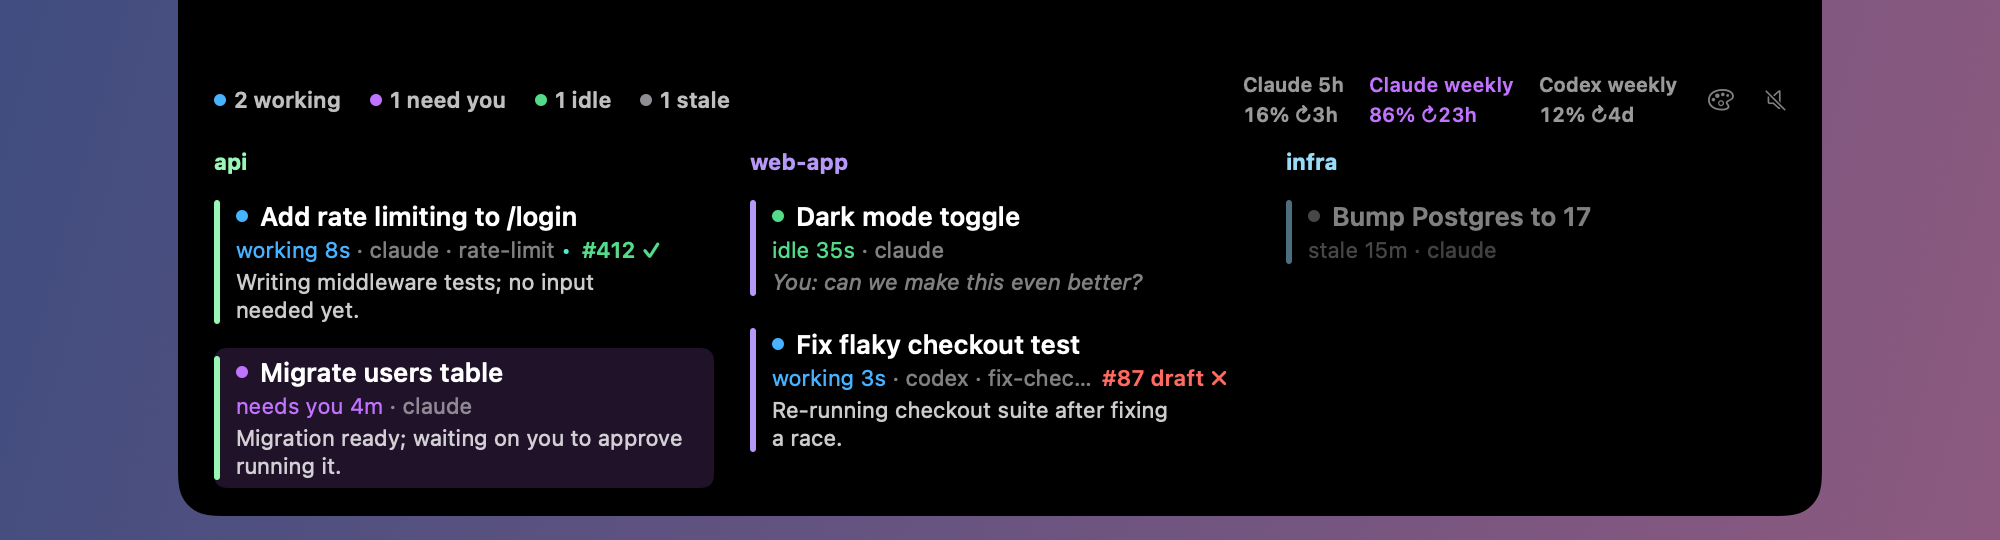
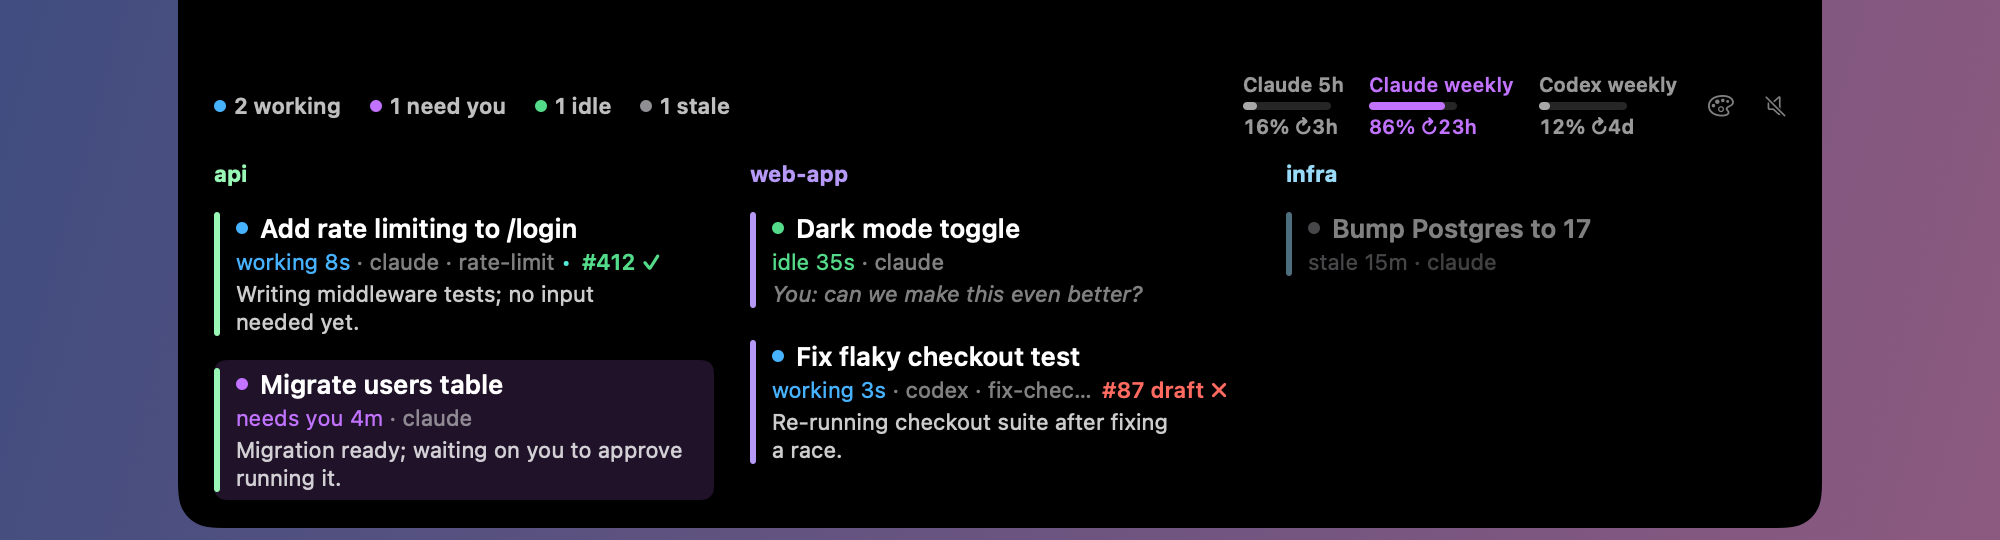
fix(notch): retain usage bars in three-project panels

diff --git a/notch/Notch.swift b/notch/Notch.swift
@@ -283,12 +283,13 @@ struct NotchView: View {
                 Spacer().frame(height: notch.height - 6)
                 let repos = groups(store.sessions)
                 let contentWidth = max(264, min(room - 36, CGFloat(repos.count) * (colW + 18) - 18))
+                let showBars = contentWidth >= 3 * colW + 36
                 ViewThatFits(in: .horizontal) {
-                    header(showLimits: true, bars: true)
-                    header(showLimits: true)
+                    header(showLimits: true, bars: true, compact: false)
+                    header(showLimits: true, bars: showBars)
                     VStack(alignment: .leading, spacing: 8) {
                         header(showLimits: false)
-                        if !store.limits.isEmpty { limitsRow(bars: false) }
+                        if !store.limits.isEmpty { limitsRow(bars: showBars) }
                     }
                 }.frame(width: contentWidth)
                 if store.sessions.isEmpty {
@@ -355,24 +356,24 @@ struct NotchView: View {
         .padding(.trailing, beside ? trailing : 0)
     }
 
-    func header(showLimits: Bool, bars: Bool = false) -> some View {
+    func header(showLimits: Bool, bars: Bool = false, compact: Bool = true) -> some View {
         HStack(spacing: 14) {
             count("working", p.working) { $0.status == "busy" }
             count("need you", p.needs) { $0.needs == true }
             count("idle", p.idle) { $0.status != "busy" && $0.needs != true && $0.stale != true }
             count("stale", p.stale) { $0.stale == true }
             Spacer(minLength: 24)
-            if showLimits && !store.limits.isEmpty { limitsRow(bars: bars) }
+            if showLimits && !store.limits.isEmpty { limitsRow(bars: bars, compact: compact) }
             paletteMenu
             soundToggle
         }.font(.system(size: 11, weight: .semibold))
     }
 
-    func limitsRow(bars: Bool) -> some View {
+    func limitsRow(bars: Bool, compact: Bool = true) -> some View {
         HStack(spacing: 12) {
             ForEach(store.limits.flatMap { t in t.windows.map { ("\(t.tool) \($0.label)", $0) } }, id: \.0) { label, w in
                 let c = w.used >= 95 ? p.failing : w.used >= 80 ? p.warn : .white.opacity(0.6)
-                let layout = bars ? AnyLayout(HStackLayout(spacing: 6)) : AnyLayout(VStackLayout(alignment: .leading, spacing: 2))
+                let layout = compact ? AnyLayout(VStackLayout(alignment: .leading, spacing: 2)) : AnyLayout(HStackLayout(spacing: 6))
                 layout {
                     Text(label)
                     if bars {
@@ -383,7 +384,7 @@ struct NotchView: View {
                     }
                     Text("\(Int(w.used.rounded()))%" + (w.reset.map { " ↻\($0)" } ?? "")).monospacedDigit()
                 }
-                .font(.system(size: bars ? 11 : 10, weight: .semibold))
+                .font(.system(size: compact ? 10 : 11, weight: .semibold))
                 .foregroundStyle(c)
             }
         }

diff --git a/tests/NotchLayoutTests.swift b/tests/NotchLayoutTests.swift
@@ -3,19 +3,21 @@ import SwiftUI
 @main struct NotchLayoutTests {
     @MainActor static func main() {
         for count in 1...3 {
-            let sessions = (0..<count).map { i in
-                Session(tool: "claude", id: "\(i)", title: "Test session", project: "repo\(i)", repo: "repo\(i)",
-                        cwd: "", status: "idle", last_prompt: "continue", idle_secs: 6, summary: nil, tty: nil)
+            let sessions = (0..<(count == 3 ? 4 : count)).map { i in
+                let repo = "repo\(min(i, count - 1))"
+                return Session(tool: "claude", id: "\(i)", title: "Test session", project: repo, repo: repo,
+                               cwd: "", status: i.isMultiple(of: 2) ? "busy" : "idle", last_prompt: "continue", idle_secs: 6, summary: nil, tty: nil)
             }
             let store = Store(sample: sessions)
             store.limits = [
                 ToolLimits(tool: "Claude", windows: [.init(label: "5h", used: 38, reset: "31m"), .init(label: "weekly", used: 98, reset: "21h")]),
                 ToolLimits(tool: "Codex", windows: [.init(label: "weekly", used: 1, reset: "1d 7h")]),
             ]
-            let view = NotchView(store: store, notch: CGSize(width: 190, height: 32), open: true)
+            let view = NotchView(store: store, notch: CGSize(width: 190, height: 32), open: true, forcedPalette: .named("cool"))
             guard let image = ImageRenderer(content: view).nsImage else { fatalError("Panel did not render") }
             let expected = max(300, CGFloat(count) * 268 + 18) // columns, gaps and panel padding
             assert(abs(image.size.width - expected) < 1, "Usage widened \(count) repos to \(image.size.width)pt")
+            assert(hasUsageBar(image) == (count >= 3), "Wrong progress bar visibility for \(count) repos")
             store.limits = []
             let withoutLimits = ImageRenderer(content: view).nsImage!
             if count < 3 {
@@ -23,5 +25,19 @@ import SwiftUI
             }
         }
         print("Notch layout tests passed")
+    }
+
+    static func hasUsageBar(_ image: NSImage) -> Bool {
+        let bitmap = NSBitmapImageRep(data: image.tiffRepresentation!)!
+        for y in 0..<bitmap.pixelsHigh {
+            var run = 0
+            for x in 0..<bitmap.pixelsWide {
+                let color = bitmap.colorAt(x: x, y: y)!.usingColorSpace(.deviceRGB)!
+                let coral = color.alphaComponent > 0.9 && color.redComponent > 0.8 && color.greenComponent < 0.6 && color.blueComponent < 0.6
+                run = coral ? run + 1 : 0
+                if run >= 30 { return true } // A solid usage bar is longer than any text stroke.
+            }
+        }
+        return false
     }
 }
